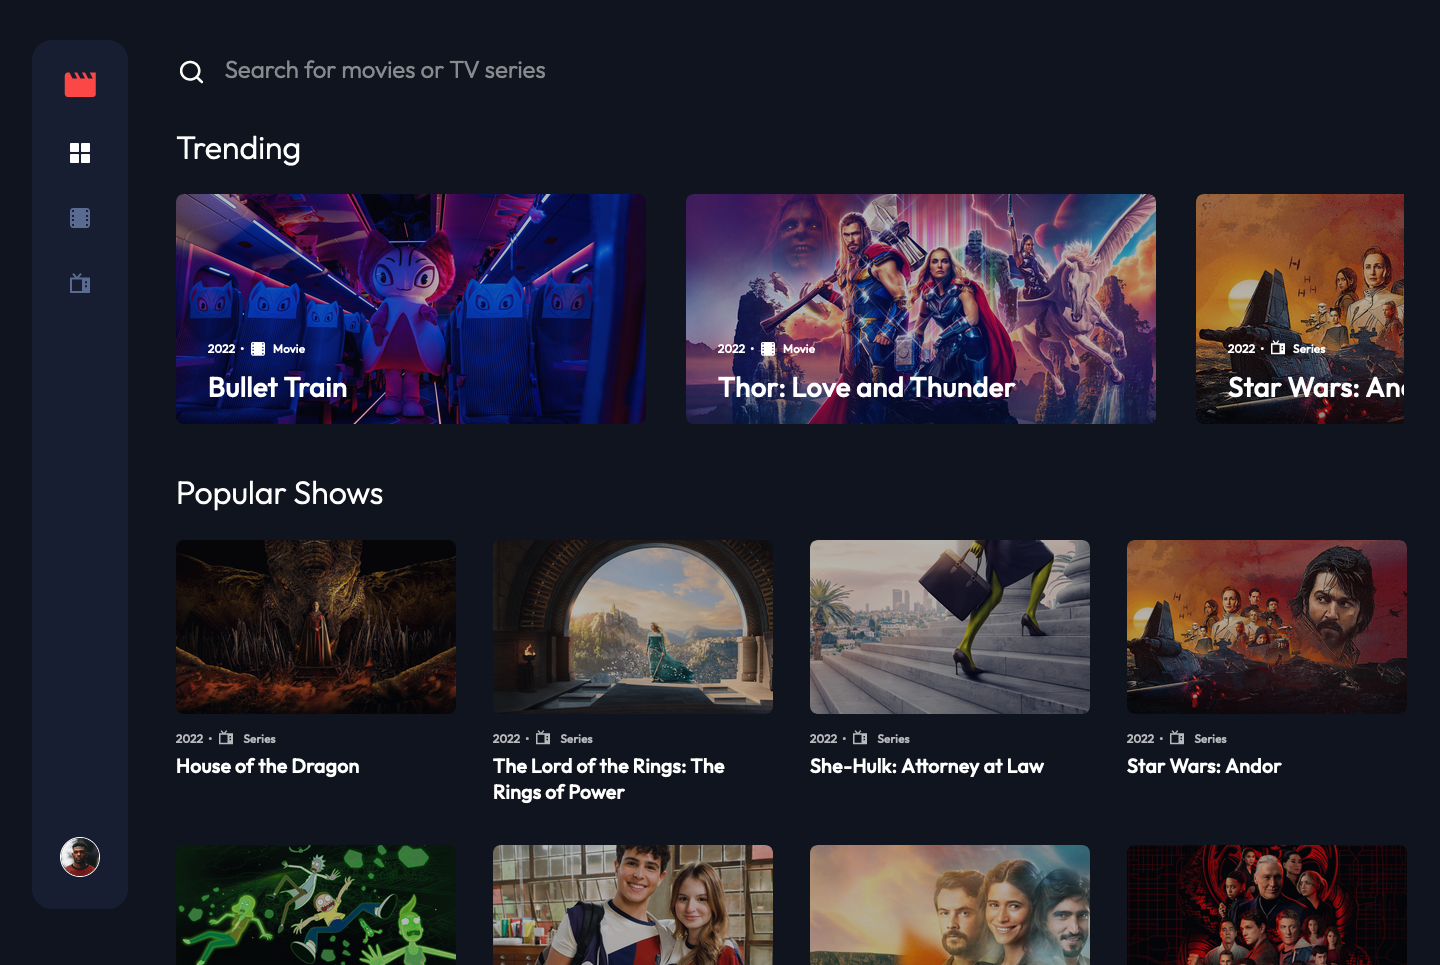
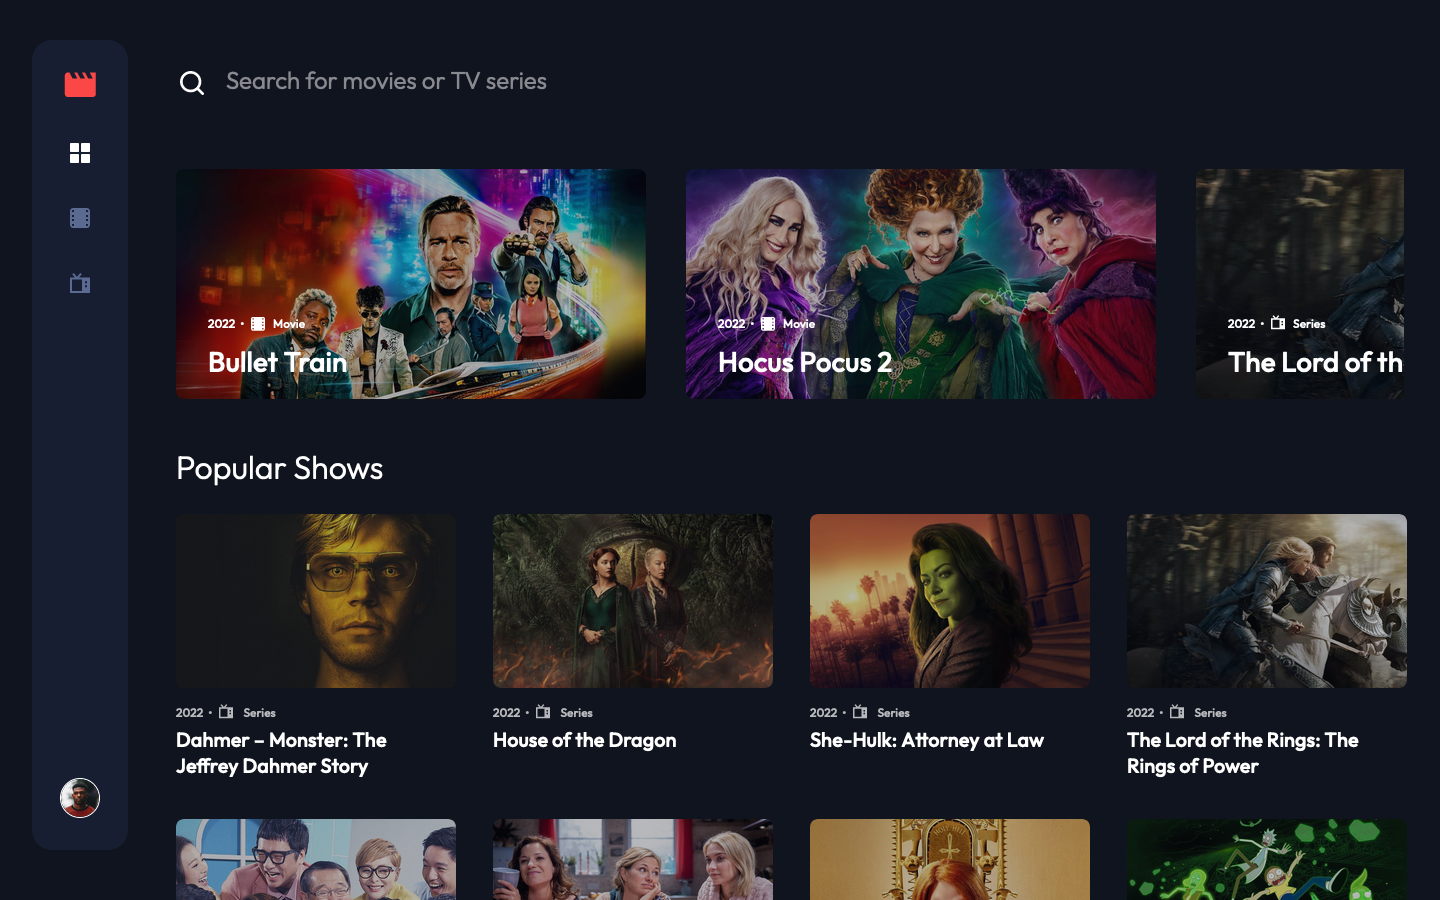
add incremental static regeneration to homepage

diff --git a/pages/index.jsx b/pages/index.jsx
@@ -1,8 +1,18 @@
 import Head from "next/head";
 import SearchBar from "@/components/SearchBar/SearchBar";
-import Categories from "@/components/Categories/Categories";
+import { sliceArray } from "@/utils/utils";
+import Trending from "@/components/Trending/Trending";
+import Category from "@/components/Category/Category";
 
-export default function Home() {
+export default function Home({
+  trending,
+  popularShows,
+  popularMovies,
+  topRatedShows,
+  upcoming,
+  onTheAir,
+  topRatedMovies,
+}) {
   return (
     <>
       <Head>
@@ -14,8 +24,115 @@ export default function Home() {
       </Head>
       <main>
         <SearchBar all />
-        <Categories />
+        <Trending trending={trending} />
+        <Category data={popularShows} category="popular shows" />
+        <Category data={popularMovies} category="popular movies" />
+        <Category data={topRatedShows} category="top rated shows" />
+        <Category data={upcoming} category="upcoming movies" />
+        <Category data={onTheAir} category="on the air" />
+        <Category data={topRatedMovies} category="top rated movies" />
       </main>
     </>
   );
+}
+
+export async function getStaticProps() {
+  // trending
+  const trendingEndpoint = `https://api.themoviedb.org/3/trending/all/week?api_key=${process.env.API_KEY}`;
+  const trendingResponse = await fetch(trendingEndpoint);
+  const trendingData = await trendingResponse.json();
+
+  const trendingFiltered = trendingData.results.filter(
+    (type) => type.media_type !== "person"
+  );
+
+  const trending = sliceArray(trendingFiltered, 10);
+
+  //   popular shows
+
+  const popularShowsEndpoint = `
+    https://api.themoviedb.org/3/tv/popular?api_key=${process.env.API_KEY}&language=en-GB&page=1`;
+  const popularShowsResponse = await fetch(popularShowsEndpoint);
+  const popularShowsData = await popularShowsResponse.json();
+
+  const popularShowsFilteredArr = popularShowsData.results.filter(
+    (item) => item.backdrop_path !== null
+  );
+
+  const popularShows = sliceArray(popularShowsFilteredArr, 12);
+
+  //   popular movies
+
+  const popularMoviesEndpoint = `
+    https://api.themoviedb.org/3/movie/popular?api_key=${process.env.API_KEY}&language=en-GB&page=1`;
+  const popularMoviesResponse = await fetch(popularMoviesEndpoint);
+  const popularMoviesData = await popularMoviesResponse.json();
+
+  const popularMoviesFilteredArr = popularMoviesData.results.filter(
+    (item) => item.backdrop_path !== null
+  );
+
+  const popularMovies = sliceArray(popularMoviesFilteredArr, 12);
+
+  // top rated shows
+  const topRatedShowsEndpoint = `https://api.themoviedb.org/3/tv/top_rated?api_key=${process.env.API_KEY}`;
+  const topRatedShowsResponse = await fetch(topRatedShowsEndpoint);
+  const topRatedShowsData = await topRatedShowsResponse.json();
+
+  const topRatedShowsFilteredArr = topRatedShowsData.results.filter(
+    (item) => item.backdrop_path !== null
+  );
+
+  const topRatedShows = sliceArray(topRatedShowsFilteredArr, 12);
+
+  //   upcoming movies
+
+  const upcomingEndpoint = `
+    https://api.themoviedb.org/3/movie/top_rated?api_key=${process.env.API_KEY}&language=en-GBpage=1&region=GB`;
+  const upcomingResponse = await fetch(upcomingEndpoint);
+  const upcomingData = await upcomingResponse.json();
+
+  const upcomingFilteredArr = upcomingData.results.filter(
+    (item) => item.backdrop_path !== null
+  );
+
+  const upcoming = sliceArray(upcomingFilteredArr, 12);
+
+  //   on the air
+
+  const onTheAirEndpoint = `https://api.themoviedb.org/3/tv/on_the_air?api_key=${process.env.API_KEY}`;
+  const onTheAirResponse = await fetch(onTheAirEndpoint);
+  const onTheAirData = await onTheAirResponse.json();
+
+  const onTheAirFilteredArr = onTheAirData.results.filter(
+    (item) => item.backdrop_path !== null
+  );
+
+  const onTheAir = sliceArray(onTheAirFilteredArr, 12);
+
+  //   top rated movies
+
+  const topRatedMoviesEndpoint = `
+  https://api.themoviedb.org/3/movie/top_rated?api_key=${process.env.API_KEY}&language=en-GBpage=1&region=GB`;
+  const topRatedMoviesResponse = await fetch(topRatedMoviesEndpoint);
+  const topRatedMoviesData = await topRatedMoviesResponse.json();
+
+  const topRatedMoviesFilteredArr = topRatedMoviesData.results.filter(
+    (item) => item.backdrop_path !== null
+  );
+
+  const topRatedMovies = sliceArray(topRatedMoviesFilteredArr, 12);
+
+  return {
+    props: {
+      trending,
+      popularShows,
+      popularMovies,
+      topRatedShows,
+      upcoming,
+      onTheAir,
+      topRatedMovies,
+    },
+    revalidate: 1,
+  };
 }

diff --git a/components/LoadingAnimation/LoadingAnimation.module.css b/components/LoadingAnimation/LoadingAnimation.module.css
@@ -6,79 +6,37 @@
   height: 100vh;
   min-height: 200px;
   font-family: "Anton", sans-serif;
+  position: relative;
+  top: -7.5rem;
 }
 
 .loader {
-  transform: rotateZ(45deg);
-  position: relative;
-  top: -8rem;
-  perspective: 1000px;
-  border-radius: 50%;
   width: 48px;
   height: 48px;
-  color: #fff;
-}
-.loader:before,
-.loader:after {
-  content: "";
-  display: block;
-  position: absolute;
-  top: 0;
-  left: 0;
-  width: inherit;
-  height: inherit;
   border-radius: 50%;
-  transform: rotateX(70deg);
-  animation: 1s spin linear infinite;
+  display: inline-block;
+  border-top: 4px solid var(--Pure-white);
+  border-right: 4px solid transparent;
+  box-sizing: border-box;
+  animation: rotation 1s linear infinite;
 }
-.loader:after {
-  color: #ff3d00;
-  transform: rotateY(70deg);
-  animation-delay: 0.4s;
+.loader::after {
+  content: "";
+  box-sizing: border-box;
+  position: absolute;
+  left: 0;
+  top: 0;
+  width: 48px;
+  height: 48px;
+  border-radius: 50%;
+  border-bottom: 4px solid var(--Red);
+  border-left: 4px solid transparent;
 }
-
-@keyframes rotate {
+@keyframes rotation {
   0% {
-    transform: translate(-50%, -50%) rotateZ(0deg);
+    transform: rotate(0deg);
   }
   100% {
-    transform: translate(-50%, -50%) rotateZ(360deg);
-  }
-}
-
-@keyframes rotateccw {
-  0% {
-    transform: translate(-50%, -50%) rotate(0deg);
-  }
-  100% {
-    transform: translate(-50%, -50%) rotate(-360deg);
-  }
-}
-
-@keyframes spin {
-  0%,
-  100% {
-    box-shadow: 0.2em 0px 0 0px currentcolor;
-  }
-  12% {
-    box-shadow: 0.2em 0.2em 0 0 currentcolor;
-  }
-  25% {
-    box-shadow: 0 0.2em 0 0px currentcolor;
-  }
-  37% {
-    box-shadow: -0.2em 0.2em 0 0 currentcolor;
-  }
-  50% {
-    box-shadow: -0.2em 0 0 0 currentcolor;
-  }
-  62% {
-    box-shadow: -0.2em -0.2em 0 0 currentcolor;
-  }
-  75% {
-    box-shadow: 0px -0.2em 0 0 currentcolor;
-  }
-  87% {
-    box-shadow: 0.2em -0.2em 0 0 currentcolor;
+    transform: rotate(360deg);
   }
 }

diff --git a/components/Category/Category.jsx b/components/Category/Category.jsx
@@ -1,28 +1,13 @@
-import useFetch from "hooks/useFetch";
-import { sliceArray } from "@/utils/utils";
 import Card from "@/components/Card/Card";
 import CardDetails from "@/components/CardDetails/CardDetails";
 import styles from "@/components/Category/Category.module.css";
 
-const Category = ({ endpoint, type }) => {
-  const { data, isError } = useFetch(endpoint, type);
-
-  if (!data) {
-    return [];
-  }
-  if (isError) return `An error occured, reload page`;
-
-  const filteredArr = data.data.results.filter(
-    (item) => item.backdrop_path !== null
-  );
-
-  const arr = sliceArray(filteredArr, 12);
-
+const Category = ({ data, category }) => {
   return (
     <section>
-      <h2 className={styles.heading}>{type}</h2>
+      <h2 className={styles.heading}>{category}</h2>
       <div className={styles.container}>
-        {arr.map((show) => {
+        {data.map((show) => {
           return (
             <article key={show.id} className={styles.linkContainer}>
               <Card

diff --git a/pages/404.jsx b/pages/404.jsx
@@ -1,6 +1,7 @@
 import Head from "next/head";
 import Link from "next/link";
 import SearchBar from "@/components/SearchBar/SearchBar";
+import styles from "@/components/DropdownButton/DropdownButton.module.css";
 
 const Custom404 = () => {
   return (
@@ -12,19 +13,7 @@ const Custom404 = () => {
         <SearchBar all />
         <h1>404 - Page Not Found</h1>
         <Link href="/" passHref>
-          <button
-            style={{
-              background: "var(--Greyish-blue)",
-              color: "white",
-              border: "1px solid var(--Greyish-blue)",
-              borderRadius: "20px",
-              textTransform: "capitalize",
-              fontSize: "inherit",
-              marginLeft: "1rem",
-              padding: "0.5em 1.25em",
-              cursor: "pointer",
-            }}
-          >
+          <button className={styles.button} style={{ marginLeft: "1rem" }}>
             Go home
           </button>
         </Link>

diff --git a/pages/500.jsx b/pages/500.jsx
@@ -1,6 +1,7 @@
 import Head from "next/head";
 import SearchBar from "@/components/SearchBar/SearchBar";
 import { useRouter } from "next/router";
+import styles from "@/components/DropdownButton/DropdownButton.module.css";
 
 const Custom500 = () => {
   const router = useRouter();
@@ -14,17 +15,8 @@ const Custom500 = () => {
         <h1>Currently unavailable</h1>
         <button
           onClick={() => router.back()}
-          style={{
-            background: "var(--Greyish-blue)",
-            color: "white",
-            border: "1px solid var(--Greyish-blue)",
-            borderRadius: "20px",
-            textTransform: "capitalize",
-            fontSize: "inherit",
-            marginLeft: "1rem",
-            padding: "0.5em 1.25em",
-            cursor: "pointer",
-          }}
+          className={styles.button}
+          style={{ marginLeft: "1rem" }}
         >
           Go back
         </button>

diff --git a/components/Trending/Trending.jsx b/components/Trending/Trending.jsx
@@ -7,7 +7,7 @@ import useSlider from "hooks/useSlider";
 import chevronLeft from "@/public/assets/chevron-left-solid.svg";
 import chevronRight from "@/public/assets/chevron-right-solid.svg";
 
-const Trending = ({ arr }) => {
+const Trending = ({ trending, time }) => {
   const {
     isScrollAtStart,
     isScrollAtEnd,
@@ -20,14 +20,14 @@ const Trending = ({ arr }) => {
 
   return (
     <section>
-      <h1>Trending</h1>
+      <h1>{time}</h1>
       <div className={styles.outerBanner}>
         <div
           className={styles.banner}
           ref={sliderRef}
           onScroll={getScrollPosition}
         >
-          {arr.map((item) => {
+          {trending.map((item) => {
             return (
               <article className={styles.container} key={item.id}>
                 <Link

diff --git a/pages/api/series/genre/[...params].js b/pages/api/series/genre/[...params].js
@@ -3,7 +3,7 @@ export default async function handler(req, res) {
     const { params } = req.query;
 
     const URL = `
-      https://api.themoviedb.org/3/discover/tv?api_key=${process.env.API_KEY}&language=en-GB&sort_by=popularity.desc&page=${params[1]}&with_genres=${params[0]}`;
+        https://api.themoviedb.org/3/discover/tv?api_key=${process.env.API_KEY}&language=en-GB&sort_by=popularity.desc&page=${params[1]}&with_genres=${params[0]}`;
     const response = await fetch(URL);
     const data = await response.json();
     res.status(200).json({ data: data });

diff --git a/pages/api/series/[...params].js b/pages/api/series/[...params].js
@@ -2,7 +2,7 @@ export default async function handler(req, res) {
   try {
     const { params } = req.query;
     const URL = `
-    https://api.themoviedb.org/3/tv/popular?api_key=${process.env.API_KEY}&language=en-GB&page=${params[0]}`;
+      https://api.themoviedb.org/3/tv/popular?api_key=${process.env.API_KEY}&language=en-GB&page=${params[0]}`;
     const response = await fetch(URL);
     const data = await response.json();
     res.status(200).json({ data: data });

diff --git a/components/Suggested/Suggested.jsx b/components/Suggested/Suggested.jsx
@@ -115,7 +115,6 @@ const Suggested = ({ suggested, movies, closeReadMore }) => {
               alt="arrow right"
               unoptimized={true}
               className={styles.arrow}
-              priority={true}
             />
           </button>
         )}

diff --git a/README.md b/README.md
@@ -61,9 +61,9 @@ Added features:
 
 Now that I'm comfortable with React, I decided to dive into Next.js to learn about some of the framework's out-of-the-box tools, such as their file-system based router and some of the different rendering methods.
 
-This web app is a resource for discovering new movies and TV shows, as well as where to watch them. Because the site does not require login and the API data is frequently updated, server side rendering would most likely be the best option across all pages for SEO purposes, as all data can be pre-rendered at request time. However, because this is a personal project and my first time using Next.js, I decided to try out different rendering methods.
+This web app is a resource for discovering new movies and TV shows, as well as where to watch them. As this is my first next.js application, I wanted to experiment with various rendering techniques while also thinking about the techniques that would be most appropriate for this kind of website.Pre-rendering the data would be the greatest solution for a site like this because it isn't sitting behind user authentication and would benefit from SEO to increase organic traffic. The user can click on or search for an infinite number of movies and TV series, hence server side rendering—which will render new API Data at request time—is the ideal rendering choice while keeping SEO in mind. I used this method for each movie and TV series page.
 
-To provide a faster initial load time than a pure react application, the home page statically generates elements that are consistent across all pages, and the api data is then rendered on the client side. I also used client-side rendering for the movie, series, and search pages, but all individual movie/series pages are server-side rendered. I used the [NProgress](https://www.npmjs.com/package/nprogress) to add a progress bar to show the client that the request is loading as they won't see the loading spinner that they will see when api data is rendered client side.
+The categories on the homepage remain unchanged, and the category data from TMDB is only updated daily. As a result, I determined that using incremental static regeneration (ISR) to benefit from fast initial load times while considering SEO would be a good option here. Data will be fetched at build time, and once a user clicks on the homepage, data will be revalidated and fresh data will be rendered in time for subsequent visits. I considered using Next.js's new on-demand ISR, but I couldn't find a way to call the revalidate route without exposing the secret token to the client, so I stuck with ISR. I used client-side rendering for the movie, series, and search pages to allow for smooth transitions between these pages, especially when users switch between genres.
 
 One of the advantages of using NextJS is that CSS modules are included, which I found useful. I prefer scoping styles locally to writing long scss/css files because it is easier to refactor code. I had been using styled components to style my applications recently, but after researching and reading numerous articles such as [this](https://www.puruvj.dev/blog/move-to-css-modules-from-styled-components), because Javascript is more demanding on the main thread, I decided to use CSS in separate files for better performance.
 
